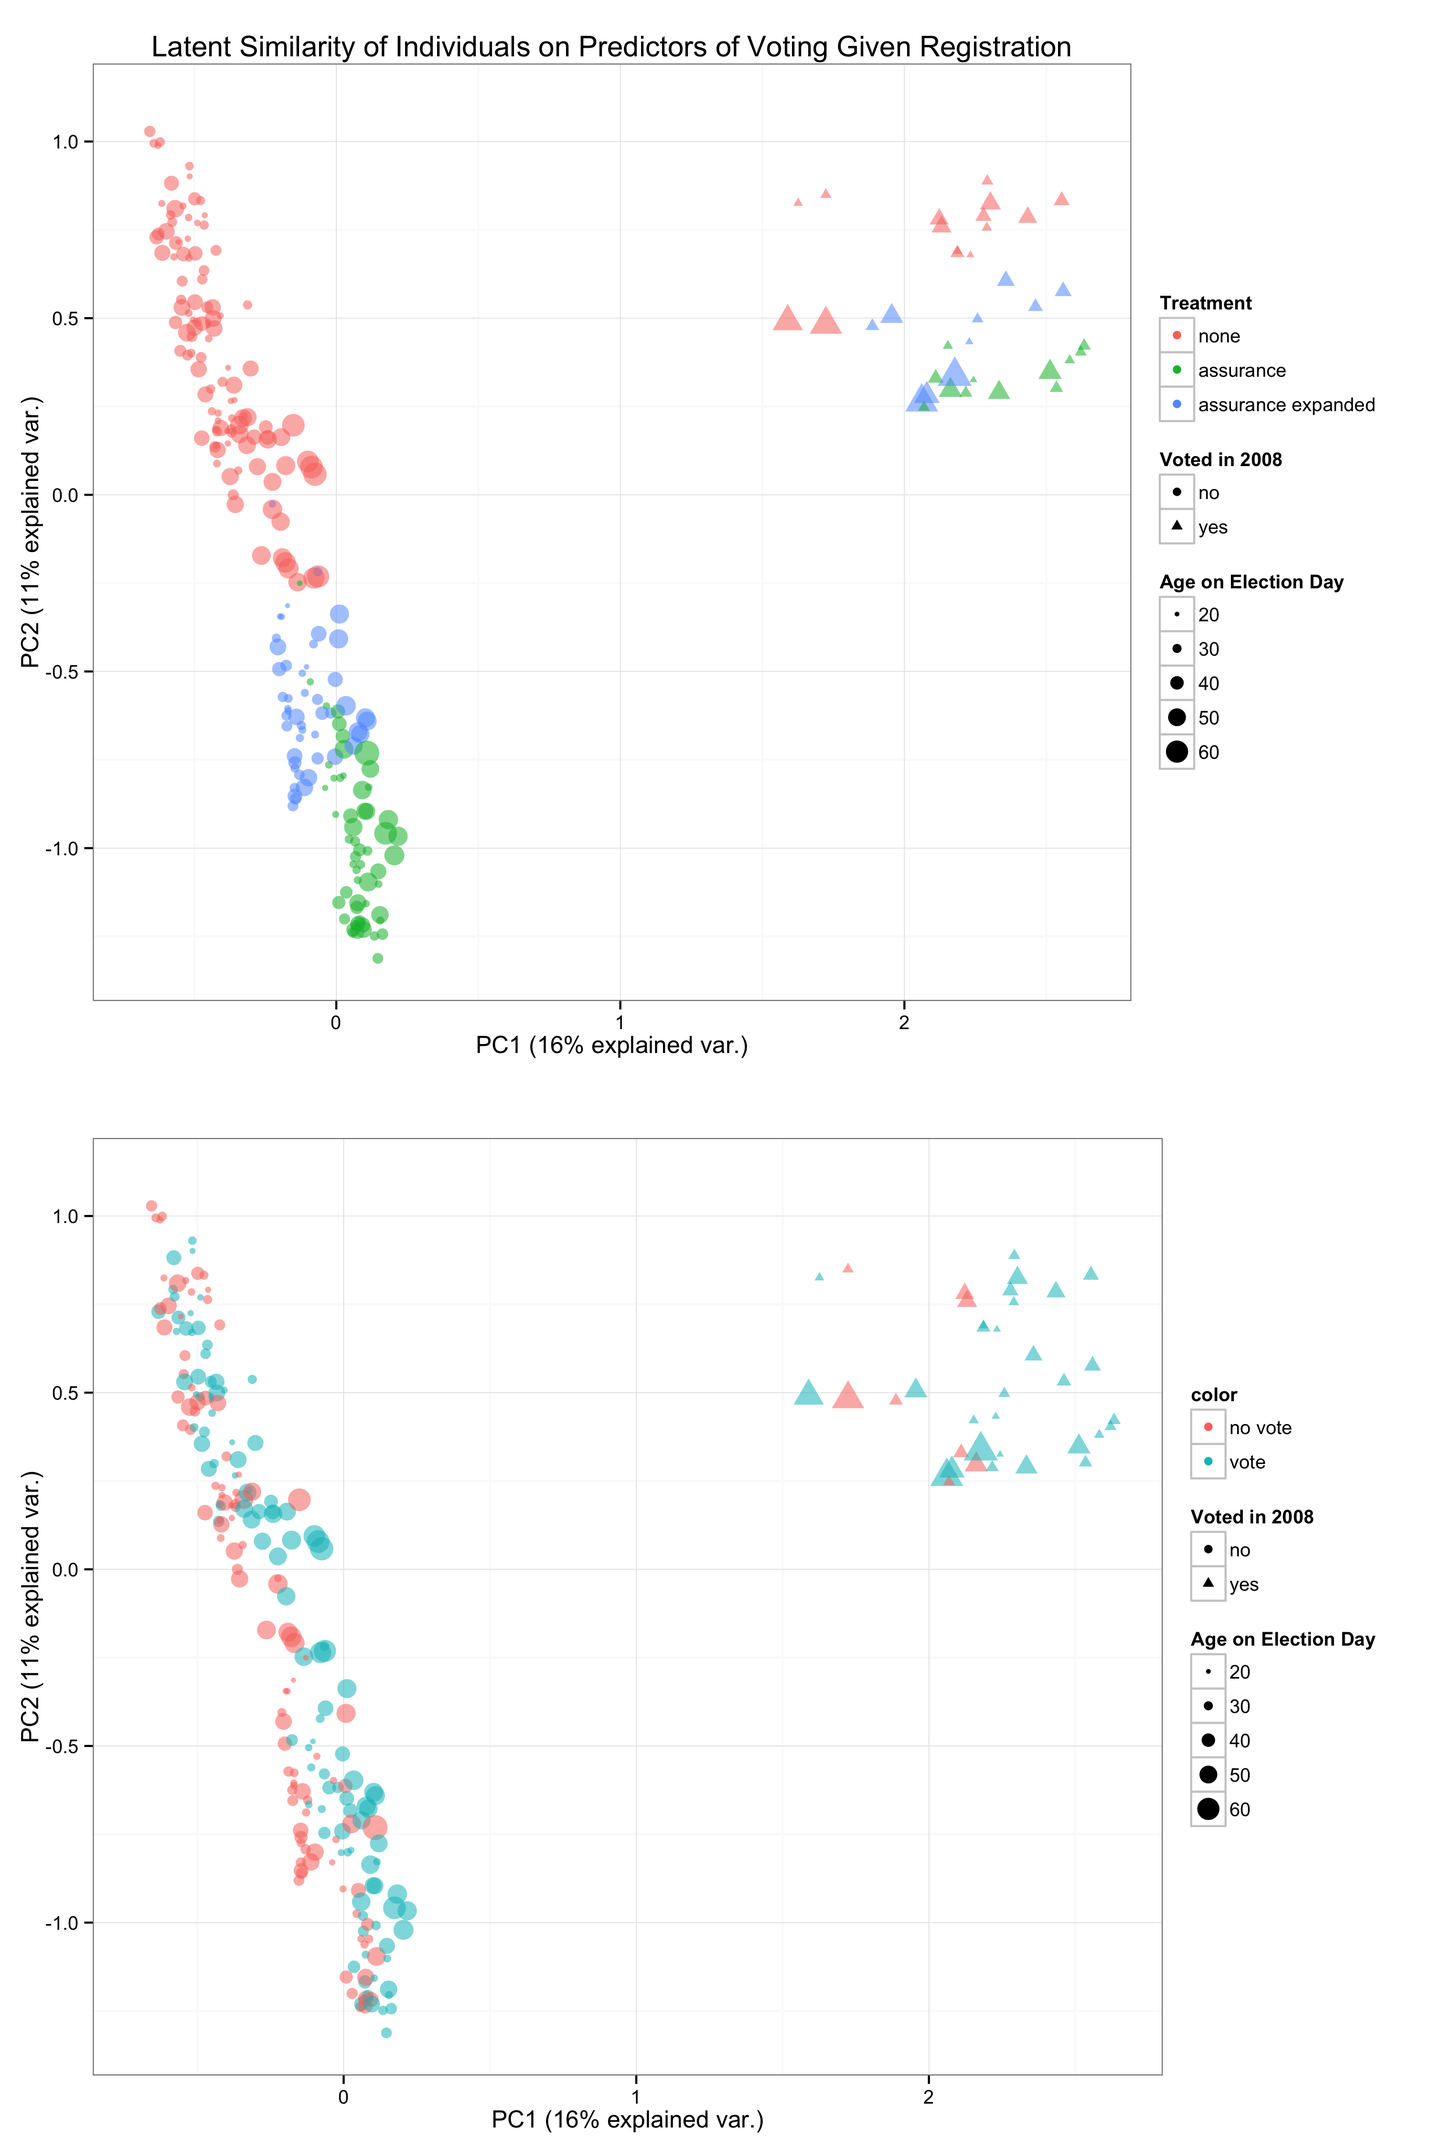
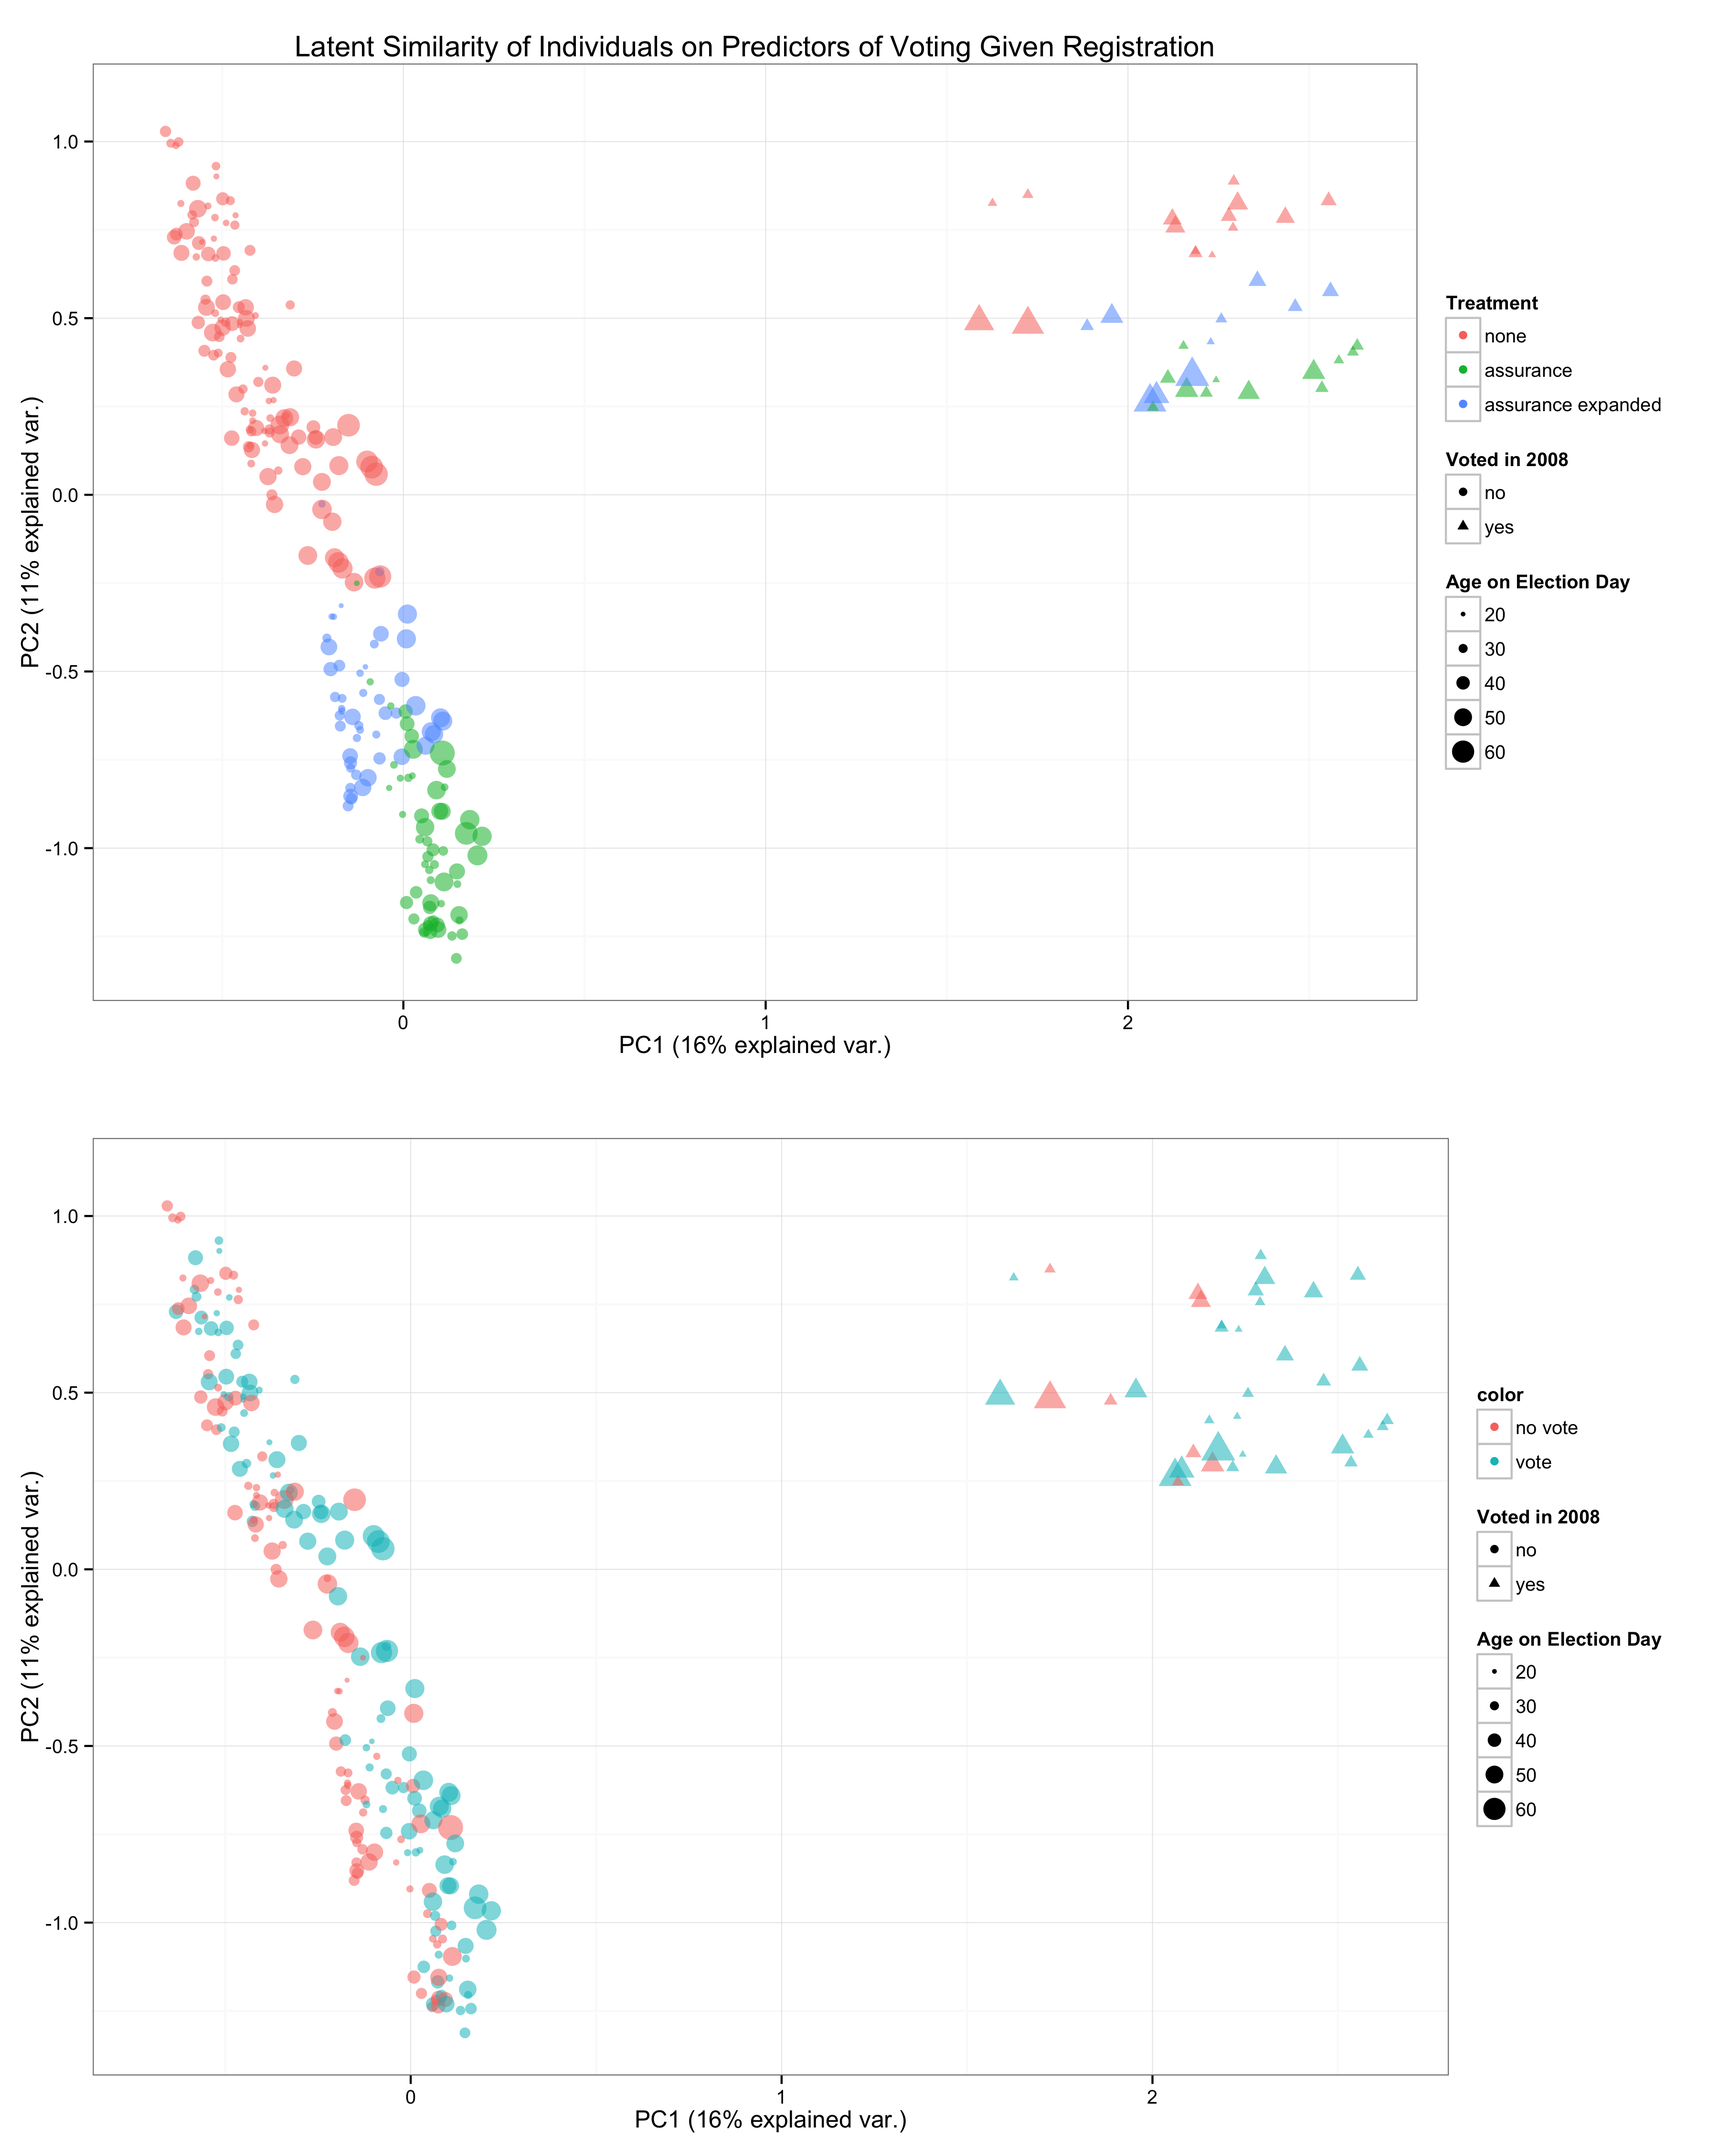
adds description of prox plot
- haven't added others to appendix, need to regenerate w/ new
   dimensions
 - removed line numbers (why did we have those?)

diff --git a/rfss_manuscript.md b/rfss_manuscript.md
@@ -172,10 +172,11 @@ This method is easier to implement, and detection of interaction in situations w
 
 ### Similarity and Clustering
 
-Random forest can furthermore be used to to understand the similarity between observations in the predictor space, after the forest has been fit. A proximity matrix is calculated, which is an $n$ by $n$ matrix where each entry gives the proportion of times that observation $i$ is in the same terminal node as observation $j$ across all the terminal nodes in the forest. By using a matrix factorization method such as principle components analysis (PCA) it is possible to visualize the similarity of the observations on at least two dimensions of the approximation to the proximity matrix. PCA can be effectively visualized using a biplot [@gabriel1971biplot]. Our software provides a unified interface for extracting, finding an approximation to, and visualizing proximity matrices. We also make it easy to layer additional variables on top of a biplot, e.g., colouring observations according to their level of some predictor although we do not do so in Figure \ref{fig:latent_prox}.
+Random forest can furthermore be used to to understand the similarity between observations in the predictor space, after the forest has been fit. A proximity matrix is calculated, which is an $n$ by $n$ matrix where each entry gives the proportion of times that observation $i$ is in the same terminal node as observation $j$ across all the terminal nodes in the forest. By using a matrix factorization method such as principle components analysis (PCA) it is possible to visualize the similarity of the observations on at least two dimensions of the approximation to the proximity matrix. PCA can be effectively visualized using a biplot [@gabriel1971biplot]. Our software provides a unified interface for extracting, finding an approximation to, and visualizing proximity matrices. We also make it easy to layer additional variables on top of a biplot, e.g., colouring observations according to their level of some predictor as we show in Figure \ref{fig:prox_cond_vote}.
 
-Figure ... shows AWESOME THINGS
+In the upper part of \ref{fig:prox_cond_vote} observations are coloured by their treatment condition, and in the lower part, by whether or not they voted (the outcome of interest). The point shape shows whether or not the individual voted in 2008, and the size of the point gives the individual's age on election day. Clearly the first component (the $x$-axis) is whether or not the individual voted in 2008, and the second component is treatment status. Age appears to be less directly relevant, though it may be indirectly relevant. Similar figures for random forests predicting whether or not an individual votes regardless of whether they registered and for registration can be found in the appendix.
 
+![The first two components of PCA of the proximity matrix of a random forest fit to ex-felons that have registered to vote, which shows the latent similarity of observations in the space spanned by the predictors. \label{fig:prox_cond_vote}](figures/prox_cond_vote.png)
 
 ## Limitations
 
